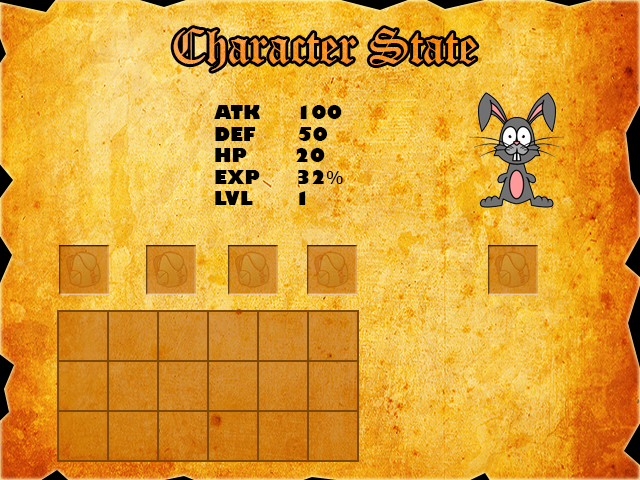
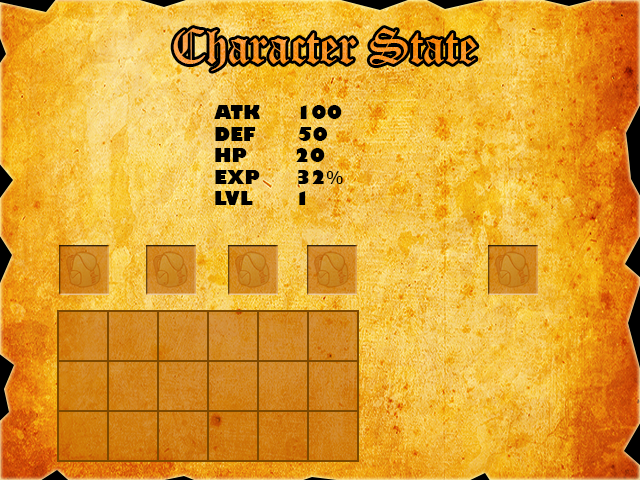
Replaced dummy rabbit by MiniSpirit and Added PetScreen

Changed region(s): [[0.7188, 0.1875, 0.875, 0.4375]]

diff --git a/core/src/main/java/sut/game01/core/ModelShow/MiniSpiritModel.java b/core/src/main/java/sut/game01/core/ModelShow/MiniSpiritModel.java
@@ -1,0 +1,60 @@
+package sut.game01.core.ModelShow;
+
+import playn.core.GroupLayer;
+import playn.core.ImageLayer;
+import playn.core.PlayN;
+import playn.core.util.Callback;
+import sut.game01.core.sprite.Sprite;
+import sut.game01.core.sprite.SpriteLoader;
+
+/**
+ * Created by PSG on 3/21/14.
+ */
+public class MiniSpiritModel {
+    Sprite sprite;
+    int spriteIndex = -1;
+    boolean hasLoaded = false;
+    int e = 0;
+    int offset =0;
+
+    public MiniSpiritModel(final GroupLayer layer, final float px, final float py)
+    {
+        sprite = SpriteLoader.getSprite("images/Pet/MiniSpirit.json");
+        sprite.addCallback(new Callback<Sprite>() {
+            @Override
+            public void onSuccess(Sprite result) {
+                sprite.setSprite(spriteIndex);
+                sprite.layer().setOrigin(150f/2f,168f/2f);
+                sprite.layer().setTranslation(px,py);
+
+                layer.add(sprite.layer());
+
+                hasLoaded = true;
+            }
+
+            @Override
+            public void onFailure(Throwable cause) {
+                PlayN.log().error("Error loading image!", cause);
+            }
+        });
+    }
+
+    public void update(int delta)
+    {
+        if(!hasLoaded) return;
+
+        e+=delta;
+
+        if(e >= 150)
+        {
+            spriteIndex = offset + ((spriteIndex+1)%4);
+            sprite.setSprite(spriteIndex);
+            e = 0;
+        }
+    }
+
+    public ImageLayer layer()
+    {
+        return sprite.layer();
+    }
+}

diff --git a/core/src/main/java/sut/game01/core/screen/PetScreen.java b/core/src/main/java/sut/game01/core/screen/PetScreen.java
@@ -1,7 +1,11 @@
 package sut.game01.core.screen;
 
+import playn.core.ImageLayer;
+import playn.core.Pointer;
+import sut.game01.core.ModelShow.MiniSpiritModel;
 import tripleplay.game.ScreenStack;
 import tripleplay.game.UIScreen;
+import static playn.core.PlayN.*;
 
 /**
  * Created by PSG on 3/2/14.
@@ -10,6 +14,8 @@ public class PetScreen extends UIScreen {
 
     final ScreenStack ss;
 
+    private MiniSpiritModel pet;
+
     public PetScreen(ScreenStack ss)
     {
         this.ss = ss;
@@ -17,6 +23,25 @@ public class PetScreen extends UIScreen {
 
     @Override
     public void wasAdded() {
-        super.wasAdded();
+        ImageLayer bgLayer = graphics().createImageLayer(assets().getImage("images/PetScreen/petScreen.png"));
+        layer.add(bgLayer);
+
+        ImageLayer backLayer = graphics().createImageLayer(assets().getImage("images/MapScreen/back.png"));
+        backLayer.setTranslation(500,15);
+        backLayer.addListener(new Pointer.Adapter(){
+            @Override
+            public void onPointerEnd(Pointer.Event event) {
+                ss.remove(PetScreen.this);
+            }
+        });
+        layer.add(backLayer);
+
+        pet = new MiniSpiritModel(layer,200f,260f);
+        pet.layer().setScale(1.5f);
+    }
+
+    @Override
+    public void update(int delta) {
+        pet.update(delta);
     }
 }

diff --git a/core/src/main/java/sut/game01/core/screen/CharacterScreen.java b/core/src/main/java/sut/game01/core/screen/CharacterScreen.java
@@ -4,6 +4,7 @@ import playn.core.GroupLayer;
 import playn.core.ImageLayer;
 import playn.core.PlayN;
 import playn.core.Pointer;
+import sut.game01.core.ModelShow.MiniSpiritModel;
 import sut.game01.core.ModelShow.WitchModel;
 import sut.game01.core.Skill.SkillCard;
 import sut.game01.core.all_etc.GameContent;
@@ -24,6 +25,7 @@ public class CharacterScreen extends UIScreen {
 
     private final ScreenStack ss;
     private WitchModel model;
+    private MiniSpiritModel pet;
 
     GameContent gContent = new GameContent();
 
@@ -70,6 +72,15 @@ public class CharacterScreen extends UIScreen {
 
         // Add model for show
         model = new WitchModel(layer,125f,150f);
+
+        // Add pet Model
+        pet = new MiniSpiritModel(layer,540f,180f);
+        pet.layer().addListener(new Pointer.Adapter(){
+            @Override
+            public void onPointerEnd(Pointer.Event event) {
+                ss.push(new PetScreen(ss));
+            }
+        });
 
         // Skill Selected
         for(int i = 0;i< 4;i++)
@@ -131,6 +142,8 @@ public class CharacterScreen extends UIScreen {
         super.update(delta);
 
         model.update(delta);
+        pet.update(delta);
+
         updateSkillSlot();
         updateItemSlot();
     }
